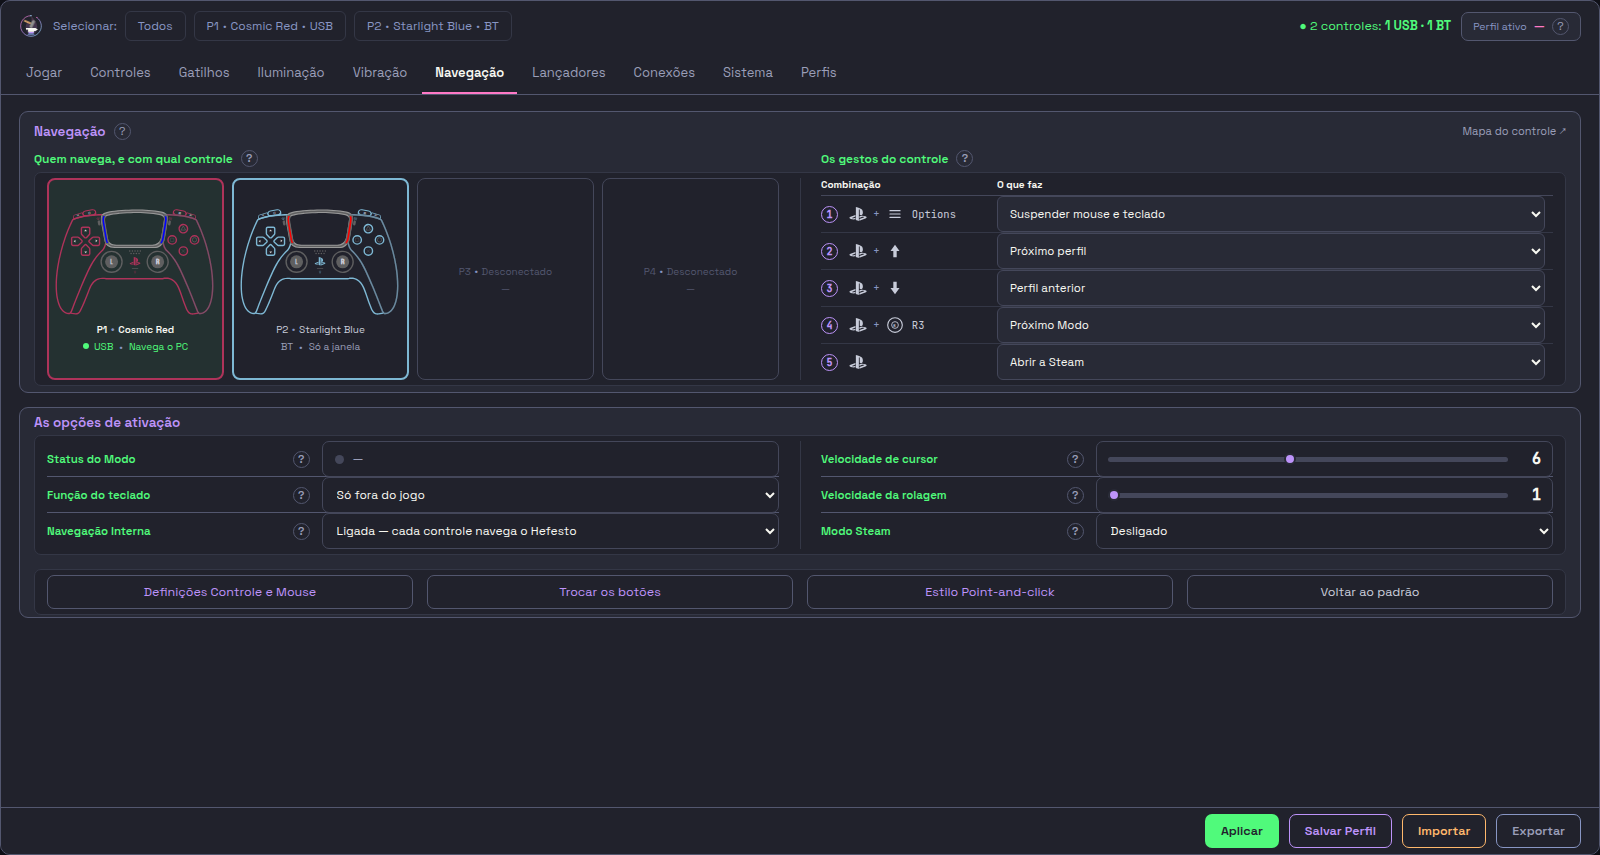
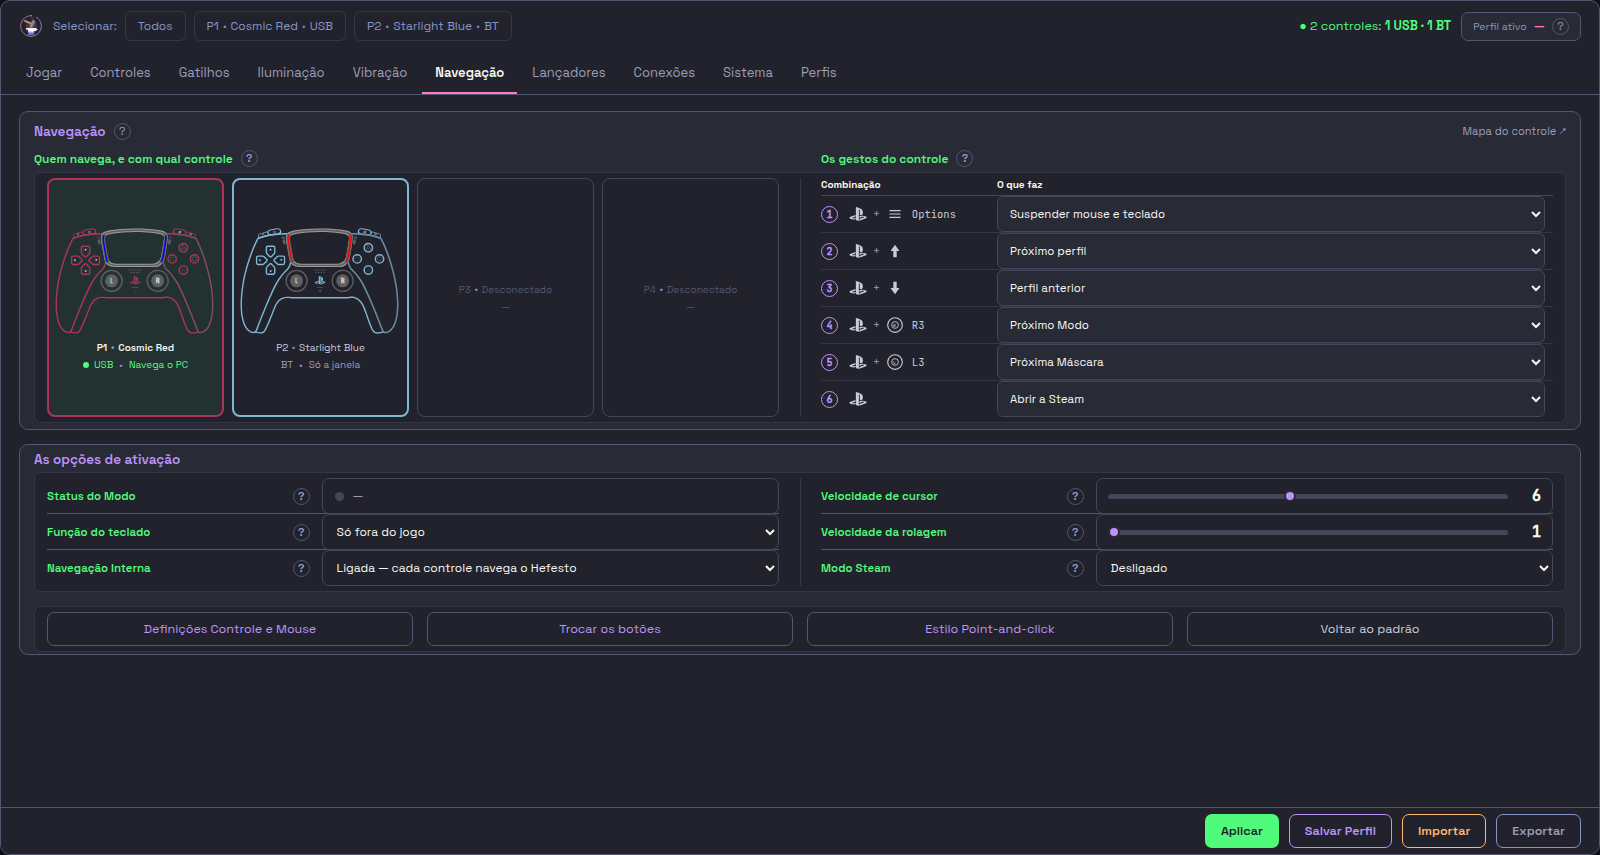
feat(tela): a sexta linha de gesto entra na aba Navegação — PS + L3, próxima máscara
Ela aprovou a aba inteira em 14/09: «ta ok pra tudo publica entao». O desenho foi
ao produto por `--publicar 06`, a declaração saiu do mockup/DIVERGENCIAS.md, e as
vinte fotos foram refeitas nas duas vistas — só a 06 mudou, nas duas.

A tela agora lista seis gestos: PS + L3 · Próxima Máscara ao lado do PS + R3 ·
Próximo Modo, e a legenda diz «os seis gestos».

diff --git a/src/hefesto_dualsense4unix/interface/paginas/06-navegacao.html b/src/hefesto_dualsense4unix/interface/paginas/06-navegacao.html
@@ -1874,7 +1874,7 @@
      coluna, que é mais do que a maior opção da lista pede ("Abrir e fechar o
      teclado na tela", ~200px).
 
-     `.tn-cx` ESCOPA A REGRA: as tabelas da ABA (os cinco combos) continuam com
+     `.tn-cx` ESCOPA A REGRA: as tabelas da ABA (os seis combos) continuam com
      os 176px que ela aprovou — lá não há marca nenhuma a caber. */
   .tn-cx .tab th:first-child,.tn-cx .tab td.b{width:250px}
 
@@ -1883,7 +1883,7 @@
      657px com elas a 22px — REMEDIDO em 06/09/2026, com a 22ª linha (o botão
      PS): eram 634px com 21. No token de 36 as linhas sozinhas passariam de
      750px, e a janela do produto tem 757. A tela não caberia na tela.
-     Na ABA, onde há cinco linhas e não vinte e duas, o token vale: veja
+     Na ABA, onde há seis linhas e não vinte e duas, o token vale: veja
      `.at-linha`. Esta é a única exceção da aba, e ela está aqui declarada em vez
      de espalhada.
      `.tn-cx.larga` (1120px) SAIU em 28/08: existia para caber as duas tabelas
@@ -1898,7 +1898,8 @@
   .gestos:has(.g2:hover) :is(#p1-glifo-ps,#p1-glifo-ps *,#p1-dpad_up > .peca,#p1-glifo-dpad_up,#p1-glifo-dpad_up *){fill:var(--pink)!important;stroke:var(--pink)!important;color:var(--pink)}
   .gestos:has(.g3:hover) :is(#p1-glifo-ps,#p1-glifo-ps *,#p1-dpad_down > .peca,#p1-glifo-dpad_down,#p1-glifo-dpad_down *){fill:var(--pink)!important;stroke:var(--pink)!important;color:var(--pink)}
   .gestos:has(.g4:hover) :is(#p1-glifo-ps,#p1-glifo-ps *,#p1-stick_r > .peca,#p1-glifo-stick_r,#p1-glifo-stick_r *){fill:var(--pink)!important;stroke:var(--pink)!important;color:var(--pink)}
-  .gestos:has(.g5:hover) :is(#p1-glifo-ps,#p1-glifo-ps *){fill:var(--pink)!important;stroke:var(--pink)!important;color:var(--pink)}
+  .gestos:has(.g5:hover) :is(#p1-glifo-ps,#p1-glifo-ps *,#p1-stick_l > .peca,#p1-glifo-stick_l,#p1-glifo-stick_l *){fill:var(--pink)!important;stroke:var(--pink)!important;color:var(--pink)}
+  .gestos:has(.g6:hover) :is(#p1-glifo-ps,#p1-glifo-ps *){fill:var(--pink)!important;stroke:var(--pink)!important;color:var(--pink)}
 
   .porta{margin-left:auto;font-size:11px;line-height:17px;height:17px;
     color:var(--texto-mudo);text-decoration:none;white-space:nowrap}
@@ -2413,7 +2414,7 @@
 
         <!-- ---------- A MESA + OS GESTOS, nas duas mesmas colunas ---------- -->
         <div class="sec-rot sec-dupla">
-          <span>Quem navega, e com qual controle<span class="ajuda" tabindex="0">?<span class="dica">Os controles ligados agora, cada um na cor do seu plástico.<br><br><b>O cursor do PC é um só:</b> mouse, teclado e os 5 gestos saem do controle marcado «Navega o PC» aqui embaixo. Os outros chegam ao jogo e não mexem no cursor.<br><br>O alvo de um ajuste se escolhe na <b>fita do topo</b>; estes cartões são leitura.</span></span></span>
+          <span>Quem navega, e com qual controle<span class="ajuda" tabindex="0">?<span class="dica">Os controles ligados agora, cada um na cor do seu plástico.<br><br><b>O cursor do PC é um só:</b> mouse, teclado e os 6 gestos saem do controle marcado «Navega o PC» aqui embaixo. Os outros chegam ao jogo e não mexem no cursor.<br><br>O alvo de um ajuste se escolhe na <b>fita do topo</b>; estes cartões são leitura.</span></span></span>
           <span>Os gestos do controle<span class="ajuda" tabindex="0">?<span class="dica">Combinações que valem <b>sem largar o controle</b>, a qualquer momento — mesmo com o jogo aberto.<br><br>Segure os dois <b>juntos</b> por <b>0,15 s</b>. Um toque rápido demais não vira combo: solta o PS sozinho, e o PS sozinho abre a Steam.<br><br><b>Ressalva:</b> o <b>PS + R3</b> e o <b>PS + Options</b> são as duas saídas de emergência quando o jogo não responde.</span></span></span>
         </div>
         <div class="moldura">
@@ -3680,7 +3681,7 @@
   <line x1="7" y1="10" x2="25" y2="10" stroke="currentColor" stroke-width="2" stroke-linecap="round"/>
   <line x1="7" y1="16" x2="25" y2="16" stroke="currentColor" stroke-width="2" stroke-linecap="round"/>
   <line x1="7" y1="22" x2="25" y2="22" stroke="currentColor" stroke-width="2" stroke-linecap="round"/>
-</svg><span class="nm">Options</span></span></td><td><select class="campo-linha" data-gesto="acao-do-gesto"><optgroup label="Navegação Interna"><option selected>Suspender mouse e teclado</option><option>Próximo perfil</option><option>Perfil anterior</option><option>Sair do modo jogo</option></optgroup><optgroup label="Modo"><option>Próximo Modo</option></optgroup><optgroup label="Modo Steam"><option>Abrir a Steam</option></optgroup><optgroup label="Executar Comando"><option>Religar o controle</option></optgroup><option>— Nada —</option></select></td></tr>
+</svg><span class="nm">Options</span></span></td><td><select class="campo-linha" data-gesto="acao-do-gesto"><optgroup label="Navegação Interna"><option selected>Suspender mouse e teclado</option><option>Próximo perfil</option><option>Perfil anterior</option><option>Sair do modo jogo</option></optgroup><optgroup label="Modo"><option>Próximo Modo</option></optgroup><optgroup label="Máscara"><option>Próxima Máscara</option></optgroup><optgroup label="Modo Steam"><option>Abrir a Steam</option></optgroup><optgroup label="Executar Comando"><option>Religar o controle</option></optgroup><option>— Nada —</option></select></td></tr>
                 <tr class="g g2"><td class="b"><span class="gls"><span class="mk-n">2</span><svg class="gl" width="18" height="18" xmlns="http://www.w3.org/2000/svg" viewBox="0 0 32 32"><title>PS</title>
 
   <g transform="translate(16 16) scale(0.99425) translate(-16.0925 -16.0)">
@@ -3689,7 +3690,7 @@
 </svg> <span class="mais">+</span> <svg class="gl" width="18" height="18" xmlns="http://www.w3.org/2000/svg" viewBox="0 0 32 32"><title>D-pad Cima</title>
 
   <polygon points="16,5 24,16 19,16 19,27 13,27 13,16 8,16" fill="currentColor"/>
-</svg></span></td><td><select class="campo-linha" data-gesto="acao-do-gesto"><optgroup label="Navegação Interna"><option>Suspender mouse e teclado</option><option selected>Próximo perfil</option><option>Perfil anterior</option><option>Sair do modo jogo</option></optgroup><optgroup label="Modo"><option>Próximo Modo</option></optgroup><optgroup label="Modo Steam"><option>Abrir a Steam</option></optgroup><optgroup label="Executar Comando"><option>Religar o controle</option></optgroup><option>— Nada —</option></select></td></tr>
+</svg></span></td><td><select class="campo-linha" data-gesto="acao-do-gesto"><optgroup label="Navegação Interna"><option>Suspender mouse e teclado</option><option selected>Próximo perfil</option><option>Perfil anterior</option><option>Sair do modo jogo</option></optgroup><optgroup label="Modo"><option>Próximo Modo</option></optgroup><optgroup label="Máscara"><option>Próxima Máscara</option></optgroup><optgroup label="Modo Steam"><option>Abrir a Steam</option></optgroup><optgroup label="Executar Comando"><option>Religar o controle</option></optgroup><option>— Nada —</option></select></td></tr>
                 <tr class="g g3"><td class="b"><span class="gls"><span class="mk-n">3</span><svg class="gl" width="18" height="18" xmlns="http://www.w3.org/2000/svg" viewBox="0 0 32 32"><title>PS</title>
 
   <g transform="translate(16 16) scale(0.99425) translate(-16.0925 -16.0)">
@@ -3698,7 +3699,7 @@
 </svg> <span class="mais">+</span> <svg class="gl" width="18" height="18" xmlns="http://www.w3.org/2000/svg" viewBox="0 0 32 32"><title>D-pad Baixo</title>
 
   <polygon points="16,27 8,16 13,16 13,5 19,5 19,16 24,16" fill="currentColor"/>
-</svg></span></td><td><select class="campo-linha" data-gesto="acao-do-gesto"><optgroup label="Navegação Interna"><option>Suspender mouse e teclado</option><option>Próximo perfil</option><option selected>Perfil anterior</option><option>Sair do modo jogo</option></optgroup><optgroup label="Modo"><option>Próximo Modo</option></optgroup><optgroup label="Modo Steam"><option>Abrir a Steam</option></optgroup><optgroup label="Executar Comando"><option>Religar o controle</option></optgroup><option>— Nada —</option></select></td></tr>
+</svg></span></td><td><select class="campo-linha" data-gesto="acao-do-gesto"><optgroup label="Navegação Interna"><option>Suspender mouse e teclado</option><option>Próximo perfil</option><option selected>Perfil anterior</option><option>Sair do modo jogo</option></optgroup><optgroup label="Modo"><option>Próximo Modo</option></optgroup><optgroup label="Máscara"><option>Próxima Máscara</option></optgroup><optgroup label="Modo Steam"><option>Abrir a Steam</option></optgroup><optgroup label="Executar Comando"><option>Religar o controle</option></optgroup><option>— Nada —</option></select></td></tr>
                 <tr class="g g4"><td class="b"><span class="gls"><span class="mk-n">4</span><svg class="gl" width="18" height="18" xmlns="http://www.w3.org/2000/svg" viewBox="0 0 32 32"><title>PS</title>
 
   <g transform="translate(16 16) scale(0.99425) translate(-16.0925 -16.0)">
@@ -3709,13 +3710,24 @@
   <circle cx="16" cy="16" r="13" fill="none" stroke="currentColor" stroke-width="2"/>
   <circle cx="16" cy="16" r="6" fill="none" stroke="currentColor" stroke-width="1.5"/>
   <text x="13" y="19" font-family="monospace" font-size="7" font-weight="bold" fill="currentColor">R</text>
-</svg><span class="nm">R3</span></span></td><td><select class="campo-linha" data-gesto="acao-do-gesto"><optgroup label="Navegação Interna"><option>Suspender mouse e teclado</option><option>Próximo perfil</option><option>Perfil anterior</option><option>Sair do modo jogo</option></optgroup><optgroup label="Modo"><option selected>Próximo Modo</option></optgroup><optgroup label="Modo Steam"><option>Abrir a Steam</option></optgroup><optgroup label="Executar Comando"><option>Religar o controle</option></optgroup><option>— Nada —</option></select></td></tr>
+</svg><span class="nm">R3</span></span></td><td><select class="campo-linha" data-gesto="acao-do-gesto"><optgroup label="Navegação Interna"><option>Suspender mouse e teclado</option><option>Próximo perfil</option><option>Perfil anterior</option><option>Sair do modo jogo</option></optgroup><optgroup label="Modo"><option selected>Próximo Modo</option></optgroup><optgroup label="Máscara"><option>Próxima Máscara</option></optgroup><optgroup label="Modo Steam"><option>Abrir a Steam</option></optgroup><optgroup label="Executar Comando"><option>Religar o controle</option></optgroup><option>— Nada —</option></select></td></tr>
                 <tr class="g g5"><td class="b"><span class="gls"><span class="mk-n">5</span><svg class="gl" width="18" height="18" xmlns="http://www.w3.org/2000/svg" viewBox="0 0 32 32"><title>PS</title>
 
   <g transform="translate(16 16) scale(0.99425) translate(-16.0925 -16.0)">
     <path fill="currentColor" d="M 1.348 21.736 C 0.195 22.543 0.408 23.935 3.04 24.805 C 5.671 25.675 8.73 25.855 11.422 25.371 C 11.345 25.371 11.575 25.371 11.422 25.371 L 11.422 22.624 L 8.807 23.513 C 7.807 23.835 6.807 23.916 5.808 23.675 C 5.039 23.432 5.192 22.947 6.115 22.543 L 11.422 20.604 L 11.422 17.616 L 4.039 20.282 C 3.117 20.604 2.193 21.09 1.348 21.736 Z M 19.188 9.619 L 19.188 17.455 C 22.34 19.07 24.801 17.455 24.801 13.254 C 24.801 8.973 23.34 7.034 19.111 5.5 C 16.881 4.692 14.574 3.965 12.267 3.48 L 12.267 26.825 L 17.65 28.521 L 17.65 8.892 C 17.65 8.004 17.65 7.358 18.266 7.599 C 19.111 7.842 19.188 8.731 19.188 9.619 Z M 29.184 19.878 C 26.955 19.07 24.571 18.746 22.263 18.989 C 20.982 19.073 19.78 19.455 18.573 19.878 L 18.573 23.028 L 23.571 21.09 C 24.571 20.766 25.571 20.685 26.57 20.928 C 27.339 21.171 27.185 21.655 26.262 22.059 L 18.573 25.047 L 18.573 28.116 L 29.184 23.997 C 29.954 23.675 30.645 23.27 31.261 22.624 C 31.799 21.817 31.568 20.685 29.184 19.878 Z"/>
   </g>
-</svg></span></td><td><select class="campo-linha" data-gesto="acao-do-gesto"><optgroup label="Navegação Interna"><option>Suspender mouse e teclado</option><option>Próximo perfil</option><option>Perfil anterior</option><option>Sair do modo jogo</option></optgroup><optgroup label="Modo"><option>Próximo Modo</option></optgroup><optgroup label="Modo Steam"><option selected>Abrir a Steam</option></optgroup><optgroup label="Executar Comando"><option>Religar o controle</option></optgroup><option>— Nada —</option></select></td></tr>
+</svg> <span class="mais">+</span> <svg class="gl" width="18" height="18" xmlns="http://www.w3.org/2000/svg" viewBox="0 0 32 32"><title>Analógico Esquerdo</title>
+
+  <circle cx="16" cy="16" r="13" fill="none" stroke="currentColor" stroke-width="2"/>
+  <circle cx="16" cy="16" r="6" fill="none" stroke="currentColor" stroke-width="1.5"/>
+  <text x="13" y="19" font-family="monospace" font-size="7" font-weight="bold" fill="currentColor">L</text>
+</svg><span class="nm">L3</span></span></td><td><select class="campo-linha" data-gesto="acao-do-gesto"><optgroup label="Navegação Interna"><option>Suspender mouse e teclado</option><option>Próximo perfil</option><option>Perfil anterior</option><option>Sair do modo jogo</option></optgroup><optgroup label="Modo"><option>Próximo Modo</option></optgroup><optgroup label="Máscara"><option selected>Próxima Máscara</option></optgroup><optgroup label="Modo Steam"><option>Abrir a Steam</option></optgroup><optgroup label="Executar Comando"><option>Religar o controle</option></optgroup><option>— Nada —</option></select></td></tr>
+                <tr class="g g6"><td class="b"><span class="gls"><span class="mk-n">6</span><svg class="gl" width="18" height="18" xmlns="http://www.w3.org/2000/svg" viewBox="0 0 32 32"><title>PS</title>
+
+  <g transform="translate(16 16) scale(0.99425) translate(-16.0925 -16.0)">
+    <path fill="currentColor" d="M 1.348 21.736 C 0.195 22.543 0.408 23.935 3.04 24.805 C 5.671 25.675 8.73 25.855 11.422 25.371 C 11.345 25.371 11.575 25.371 11.422 25.371 L 11.422 22.624 L 8.807 23.513 C 7.807 23.835 6.807 23.916 5.808 23.675 C 5.039 23.432 5.192 22.947 6.115 22.543 L 11.422 20.604 L 11.422 17.616 L 4.039 20.282 C 3.117 20.604 2.193 21.09 1.348 21.736 Z M 19.188 9.619 L 19.188 17.455 C 22.34 19.07 24.801 17.455 24.801 13.254 C 24.801 8.973 23.34 7.034 19.111 5.5 C 16.881 4.692 14.574 3.965 12.267 3.48 L 12.267 26.825 L 17.65 28.521 L 17.65 8.892 C 17.65 8.004 17.65 7.358 18.266 7.599 C 19.111 7.842 19.188 8.731 19.188 9.619 Z M 29.184 19.878 C 26.955 19.07 24.571 18.746 22.263 18.989 C 20.982 19.073 19.78 19.455 18.573 19.878 L 18.573 23.028 L 23.571 21.09 C 24.571 20.766 25.571 20.685 26.57 20.928 C 27.339 21.171 27.185 21.655 26.262 22.059 L 18.573 25.047 L 18.573 28.116 L 29.184 23.997 C 29.954 23.675 30.645 23.27 31.261 22.624 C 31.799 21.817 31.568 20.685 29.184 19.878 Z"/>
+  </g>
+</svg></span></td><td><select class="campo-linha" data-gesto="acao-do-gesto"><optgroup label="Navegação Interna"><option>Suspender mouse e teclado</option><option>Próximo perfil</option><option>Perfil anterior</option><option>Sair do modo jogo</option></optgroup><optgroup label="Modo"><option>Próximo Modo</option></optgroup><optgroup label="Máscara"><option>Próxima Máscara</option></optgroup><optgroup label="Modo Steam"><option selected>Abrir a Steam</option></optgroup><optgroup label="Executar Comando"><option>Religar o controle</option></optgroup><option>— Nada —</option></select></td></tr>
             </table>
           </div>
         </div>
@@ -3904,7 +3916,7 @@
   <div class="tn-cx">
     <div class="tn-topo">
       <span class="tn-tit">Definições Controle e Mouse</span>
-      <span class="ajuda" tabindex="0">?<span class="dica">As <b>22 linhas</b> de cada botão: <b>o que ele faz</b> — mouse, tecla ou programa, na mesma lista.<br><br>O <b>PS</b> faz duas coisas: continua sendo a saída de emergência — os 5 gestos desta aba saem dele — e a tecla que você escolher acontece <b>junto</b>, no toque curto e fora do jogo. Escolher <b>— Nada —</b> cala o toque no PS: ele deixa de digitar e deixa de abrir a Steam; os gestos continuam.<br><br>Enquanto o touchpad for o ponteiro do computador, o clique dele não vira tecla — as três regiões ficam marcadas e a escolha fica guardada.<br><br>Valem para o controle que navega o PC: o <b data-campo="quem-navega">P1 Cosmic Red USB</b>.</span></span>
+      <span class="ajuda" tabindex="0">?<span class="dica">As <b>22 linhas</b> de cada botão: <b>o que ele faz</b> — mouse, tecla ou programa, na mesma lista.<br><br>O <b>PS</b> faz duas coisas: continua sendo a saída de emergência — os 6 gestos desta aba saem dele — e a tecla que você escolher acontece <b>junto</b>, no toque curto e fora do jogo. Escolher <b>— Nada —</b> cala o toque no PS: ele deixa de digitar e deixa de abrir a Steam; os gestos continuam.<br><br>Enquanto o touchpad for o ponteiro do computador, o clique dele não vira tecla — as três regiões ficam marcadas e a escolha fica guardada.<br><br>Valem para o controle que navega o PC: o <b data-campo="quem-navega">P1 Cosmic Red USB</b>.</span></span>
       <a class="tn-x" href="#" title="Fechar" data-gesto="fechar-definicoes">×</a>
     </div>
     <div class="tn-corpo">
@@ -4414,7 +4426,7 @@
     as tabelas em telas separadas <b>"as duas tabelas" deixou de ser o que este
     botão alcança</b>. Cada tela ganhou o seu <i>Voltar ao padrão</i>, que zera só a
     tabela dela e diz o que <b>não</b> toca; o da fileira devolve a <b>aba
-    inteira</b> — ativação, os 5 gestos e as duas telas.</li>
+    inteira</b> — ativação, os 6 gestos e as duas telas.</li>
     <li><b>A régua desta casa não mede pop-up — e a primeira que eu escrevi também
     não mediu.</b> A <code>regua.py</code> carrega o arquivo <b>sem fragmento</b> e a
     <code>regua_estados.py</code> varre só <code>.miolo, .miolo *</code>; a
@@ -4500,7 +4512,7 @@
 
   <h2>O que os quatro controles revelaram, e está na tela</h2>
   <ul>
-    <li><b>Mouse, teclado e os cinco gestos saem de UM controle só.</b> Com um
+    <li><b>Mouse, teclado e os seis gestos saem de UM controle só.</b> Com um
     controle ligado ninguém podia ver isso. O poll loop lê o estado do controle
     <b>primário</b> (<code>daemon/lifecycle.py:4541</code>) e é esse estado que vai
     para o mouse (<code>:4744</code>), para o teclado (<code>:4754</code>) e para o

diff --git a/mockup/DIVERGENCIAS.md b/mockup/DIVERGENCIAS.md
@@ -21,13 +21,4 @@ seção daqui**: a aba deixou de estar em trabalho.
 
 ---
 
-## 06-navegacao.html
-- **14/09/2026** — a sexta linha de gesto: **PS + L3 · Próxima Máscara**, ao lado
-  do PS + R3 (Próximo Modo). O lugar é escolha dela: *"Tem que ficar na aba
-  navegAção."* <!-- noqa-acento: citação literal dela --> Junto, a frase da
-  legenda passou de «os cinco gestos» para «os seis gestos». Esperando o olho
-  dela na aba inteira para `--publicar 06`.
-- **Enquanto não publica:** a aba Navegação instalada mostra cinco linhas e não
-  cita o PS + L3 em lugar nenhum. O gesto FUNCIONA no controle desde a instalação
-  de 14/09 — quem não o lista é a tela. Até publicar, quem quiser conferir o
-  combo lê `docs/usage/hotkeys.md`.
+<!-- Nenhuma aba em trabalho: o produto está igual ao desenho dela. -->
